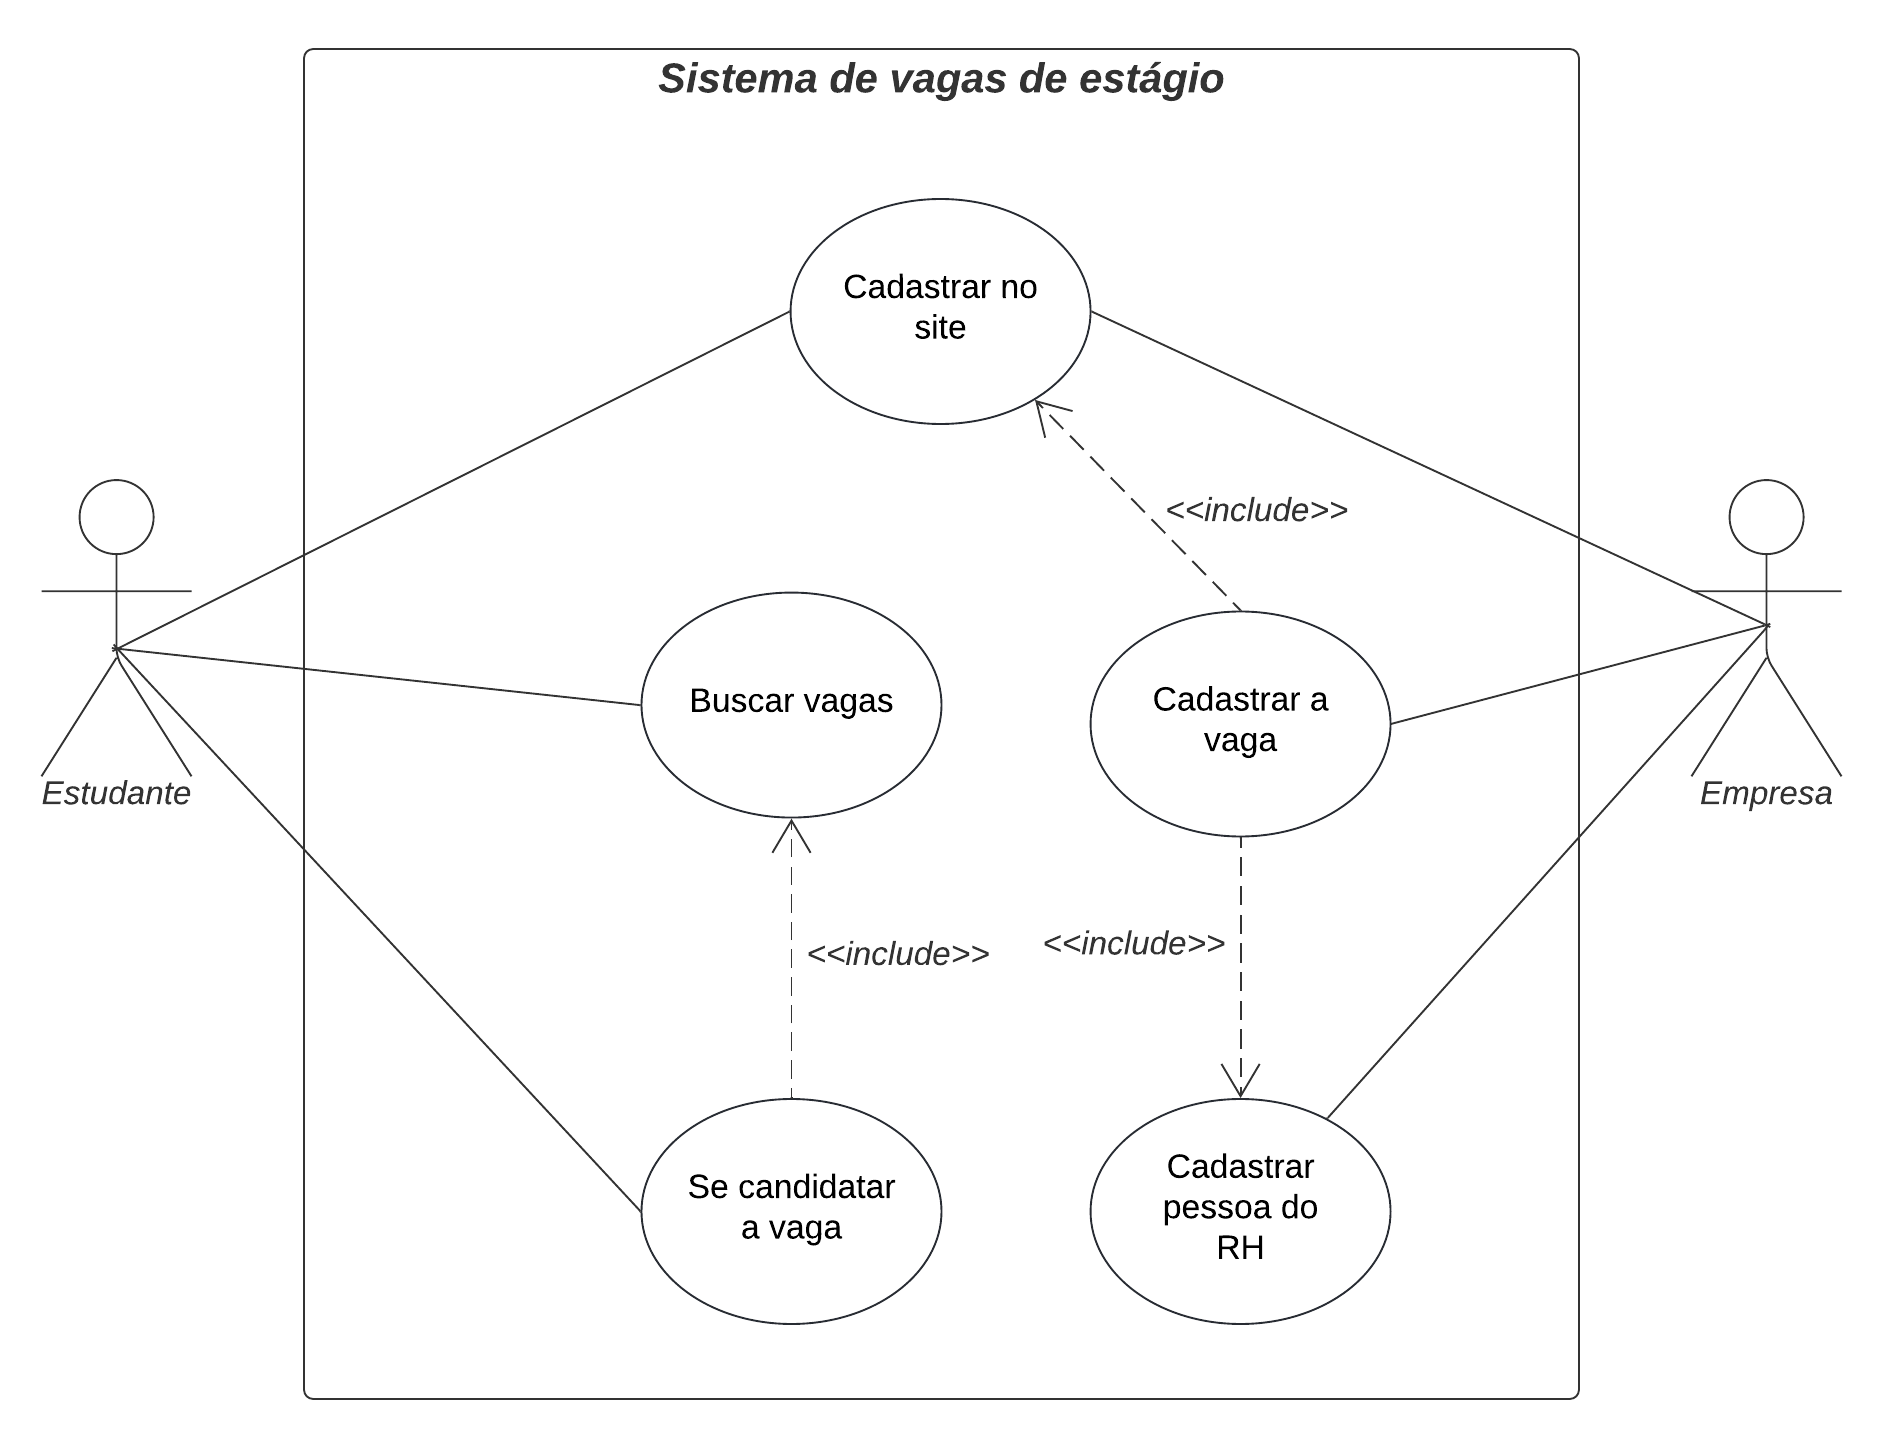
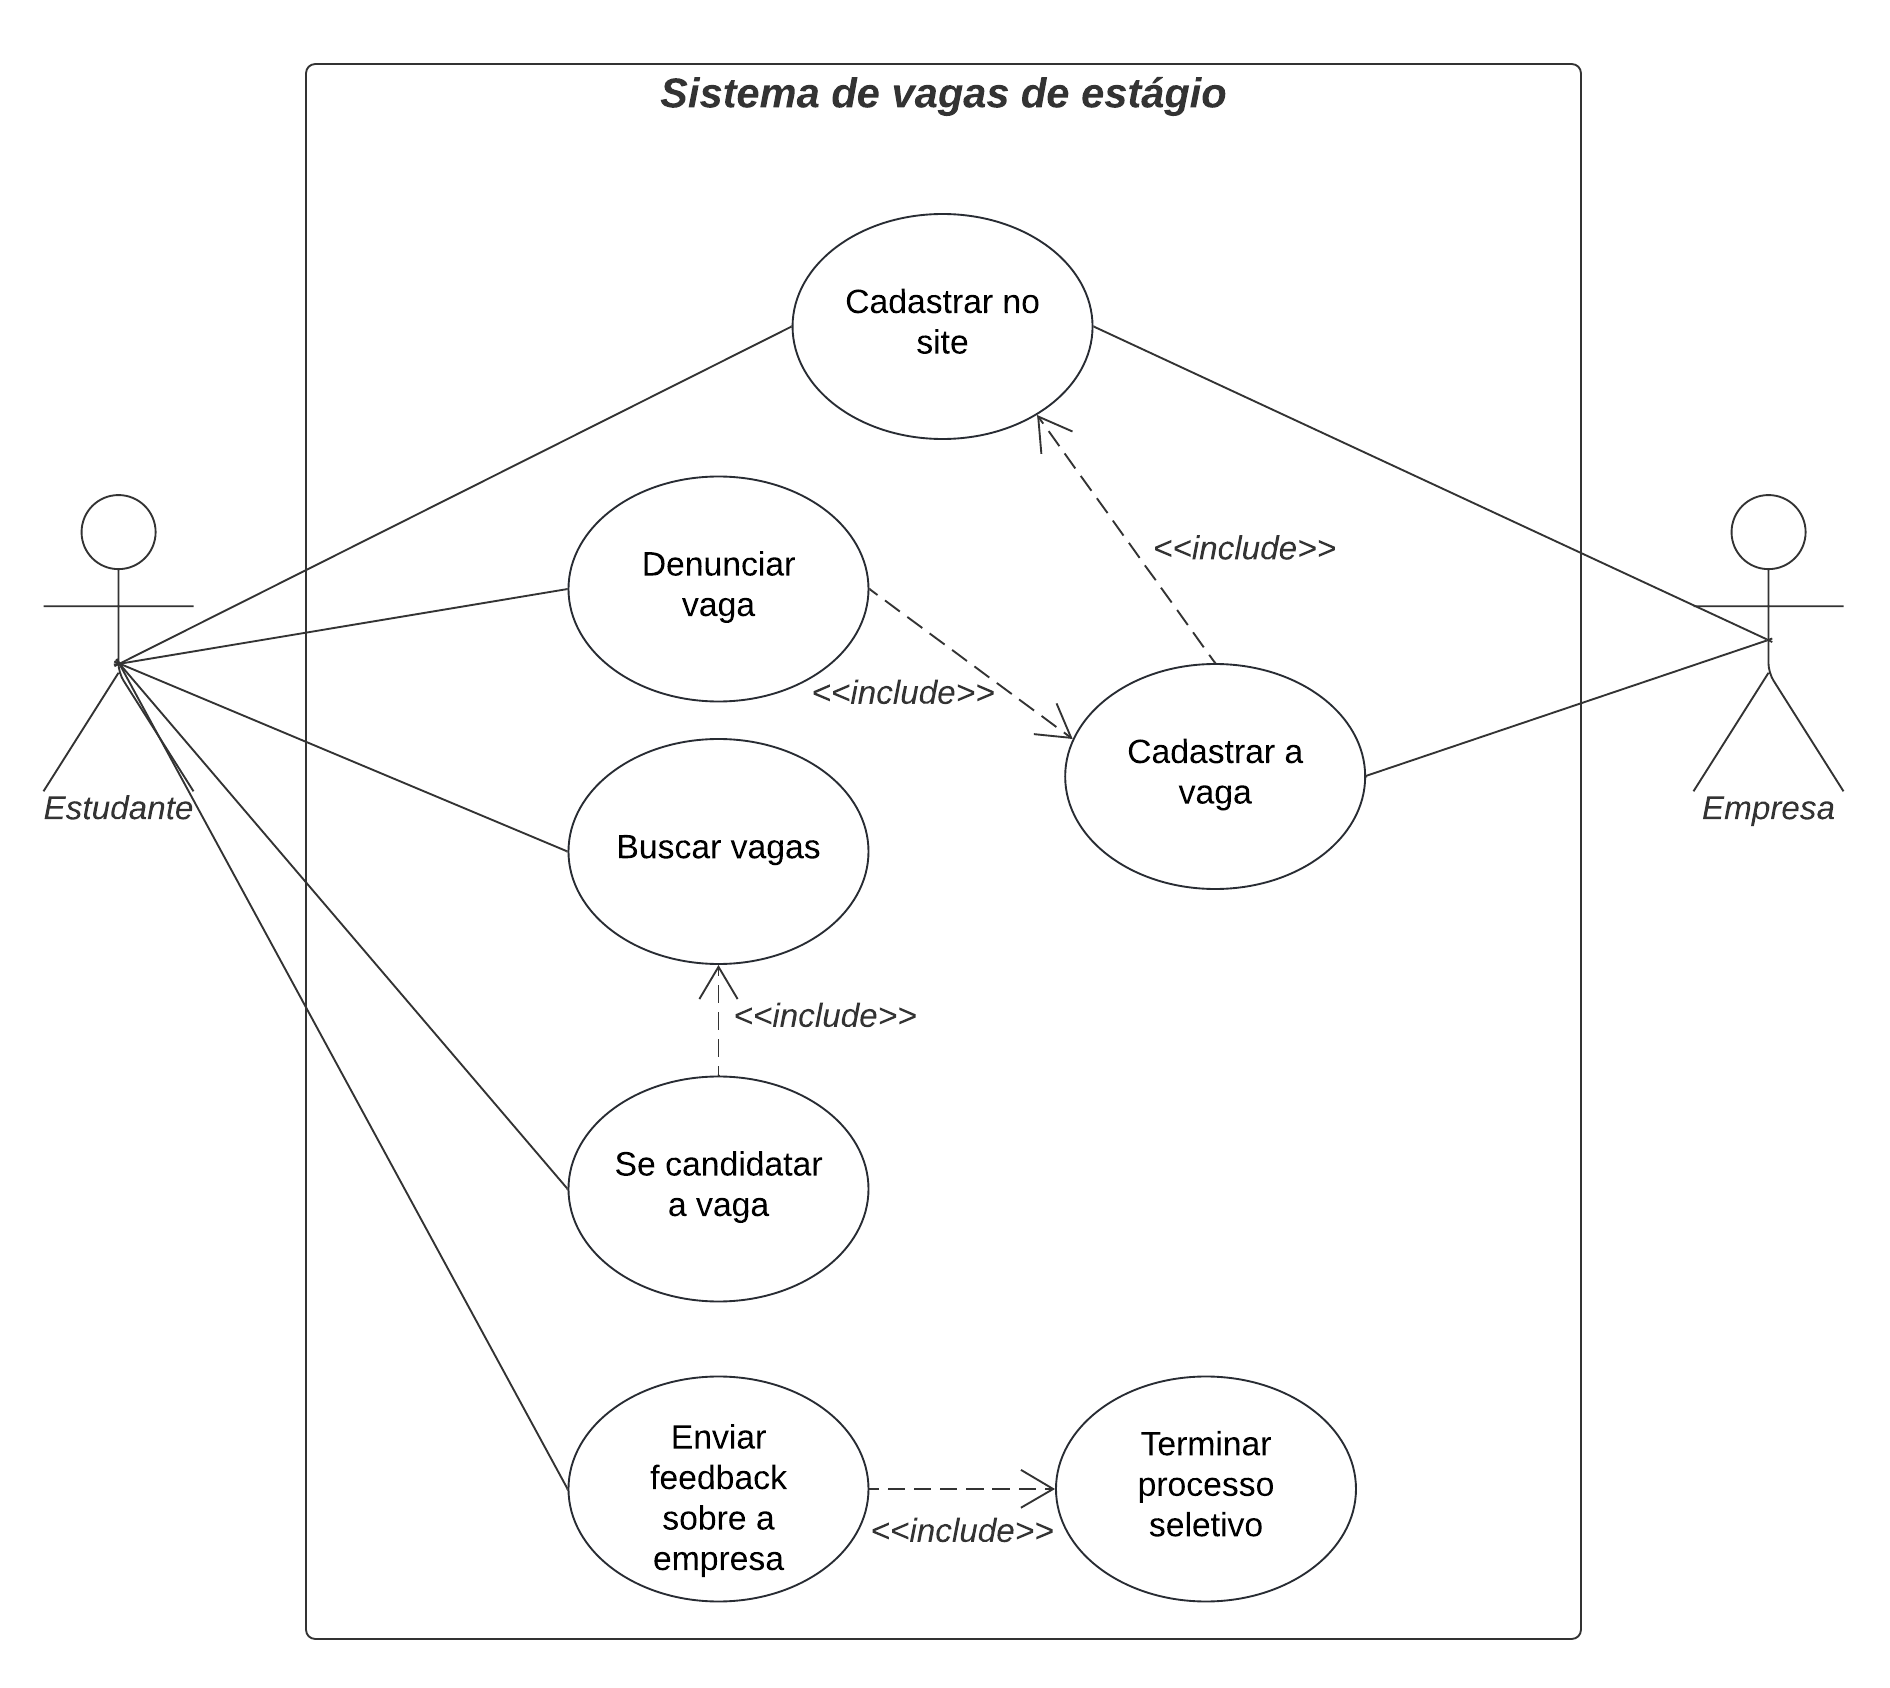
Refinamento dos casos de uso e inicio do tópico de entregas

diff --git a/desenho-do-projeto/capitulos/desenvolvimento-da-aplicacao/section-escopo.tex b/desenho-do-projeto/capitulos/desenvolvimento-da-aplicacao/section-escopo.tex
@@ -46,7 +46,7 @@ Durante nossa análise, decidimos que esses seriam os principais requisitos func
     RF-007 &
       Possibilitar que a empresa realize mudanças no status de andamento da vaga \\ \hline
     RF-008 &
-      \begin{tabular}[c]{@{}l@{}}Possibilitar que o estudante realize um feedback da empresa pós-entrevista, \\ que será visto por outros estudantes\end{tabular} \\ \hline
+      \begin{tabular}[c]{@{}l@{}}Possibilitar que o estudante realize um \emph{feedback} da empresa pós-entrevista, \\ que será visto por outros estudantes\end{tabular} \\ \hline
     RF-009 &
       \begin{tabular}[c]{@{}l@{}}Não permitir o registro de vagas cujas horas de atividades ultrapassem \\ a carga horária prevista por lei de acordo com a situação escolar de cada estudante\end{tabular} \\ \hline
     RF-010 &
@@ -74,7 +74,7 @@ Os requisitos não-funcionais do nosso projeto estão listados abaixo:
     RNF-003                               & O sistema deve possuir possibilidade de escalabilidade                  \\ \hline
     RNF-004                               & Tempo para o carregamento que satisfaça as expectativas do cliente      \\ \hline
     RNF-005                               & O sistema deve possuir uma taxa de ocorrência de falhas menor que 0.3\% \\ \hline
-    RNF-006                               & O sistema deve estar de acordo com a Lei Geral de Proteção de Dados     \\ \hline
+    RNF-006                               & O sistema deve estar de acordo com a \ac{lgpd}                          \\ \hline
     RNF-007 & \begin{tabular}[c]{@{}l@{}}O sistema deve estar de acordo com a lei Nº 11.788, de 25 de setembro de 2008, \\ regulando a carga horária do estágio\end{tabular} \\ \hline
     RNF-008 & \begin{tabular}[c]{@{}l@{}}O sistema deve ser responsivo aos diferentes dispositivos que os usuários \\ podem utilizar para acessá-lo\end{tabular}             \\ \hline
     \end{tabular}
@@ -121,7 +121,7 @@ As regras de negócio do nosso projeto estão listados abaixo:
 Casos de usos que são pertinentes à nossa aplicação.
 \begin{figure}[H]
 	\centering 
-	\caption{\label{fig:caso1}Caso de Uso 1 - Sistema de busca e cadastro de vagas}
+	\caption{\label{fig:caso1}Caso de Uso 1 - Funcionalidades do estudante}
 	%\includesvg[inkscapelatex=false,width=0.6\textwidth]{imagens/caso-de-uso-1.svg}
 	\includegraphics[width=0.8\textwidth]{imagens/caso-de-uso-1.png} 
 	\fonte{Os autores}
@@ -129,9 +129,31 @@ Casos de usos que são pertinentes à nossa aplicação.
 
 \begin{figure}[H]
 	\centering 
-	\caption{\label{fig:caso1}Caso de Uso 2 - Funcionalidades do administrador}
-	%\includesvg[inkscapelatex=false,width=0.6\textwidth]{imagens/caso-de-uso-1.svg}
+	\caption{\label{fig:caso2}Caso de Uso 2 - Funcionalidades da empresa}
+	%\includesvg[inkscapelatex=false,width=0.6\textwidth]{imagens/caso-de-uso-2.svg}
 	\includegraphics[width=0.8\textwidth]{imagens/caso-de-uso-2.png} 
 	\fonte{Os autores}
 \end{figure}
 
+\begin{figure}[H]
+	\centering 
+	\caption{\label{fig:caso3}Caso de Uso 3 - Funcionalidades do administrador}
+	%\includesvg[inkscapelatex=false,width=0.6\textwidth]{imagens/caso-de-uso-3.svg}
+	\includegraphics[width=0.8\textwidth]{imagens/caso-de-uso-3.png} 
+	\fonte{Os autores}
+\end{figure}
+
+\subsection{Fases de entrega}
+
+Nessa seção, iremos expor quais funcionalidades do sistemas pretendemos entregar nas principais fases de entrega.
+
+\subsubsection{Prova de Conceito}
+
+Na fase da prova de conceito, pretendemos entregar as funcionalidades mais básicas do nosso software. Dentre elas, o cadastro de estudantes via \ac{sso} da Google, onde é explicado o processo no site possibilitando a criação de uma conta com informações básicas, necessárias apenas para o funcionamento padrão do sistema, e o cadastro de empresas, que será feito no próprio \emph{website}, onde a empresa preenche as informações e passa por uma aprovação nossa. Além disso, o software permitirá o login desses usuários já cadastrados, onde poderão consultar suas informações básicas.
+
+Ao cadastrar no sistema, a empresa também poderá registrar uma pessoa do \ac{rh} que será responsável por gerenciar as vagas daquela organização, e essa pessoa poderá criar novas vagas com informações básicas, apenas para serem visíveis na tela de consulta de vagas.
+Na parte do estudante, será possível para ele, consultar as vagas que existem no sistema através de filtros básicos.
+
+\subsubsection{Produto Mínimo Viável (MVP)}
+
+Na entrega do \ac{mvp}, pretendemos incrementar o que já foi desenvolvido durante a prova de conceito com funcionalidades importantes ao nosso sistema, como a candidatura do estudante à uma vaga, a possibilidade do estudante denunciar uma vaga por não ser coerente com a proposta da nossa aplicação, que é ser um \emph{website} que possua vagas de estágios coerentes com a realidade de um estagiário, funcionalidade de login via \gls{linkedin} para os estudantes, recomendações de vagas para os candidatos e recomendação de candidatos para empresas

diff --git a/desenho-do-projeto/capitulos/desenvolvimento-da-aplicacao/main.tex b/desenho-do-projeto/capitulos/desenvolvimento-da-aplicacao/main.tex
@@ -14,41 +14,31 @@
 \input{capitulos/desenvolvimento-da-aplicacao/section-escopo}
 
 % ----------------------------------------------------------
-% TECNOLOGIAS UTILIZADAS
+% INTEGRACOES
 % ----------------------------------------------------------
-\section{Tecnologias utilizadas}
-\begin{comment}
-\section{Integrações}
-Nessa seção serão citadas as possíveis integrações que nossa aplicação terá, que foram decididas baseadas em outras aplicações do mercado.
-
-\subsection{Login com o Google e LinkedIn}
-Pensando na experiência de usuário, nossa aplicação terá a opção do estudante se logar através do \ac{sso} dessas empresas. Dessa forma, não será necessário digitar a senha toda vez que o usuário for usar nosso \emph{website}, precisando apenas clicar um botão e fazer o login em uma dessas alternativas.
-
-\subsection{Entrar em contato via \emph{Whatsapp}}
-Nossa aplicação terá, também, uma forma da empresa contatar o estudante via Whatsapp. Essa integração será feita via \ac{api} disponibilizada pela própria empresa que mantém o aplicativo (Meta). Dessa forma, com apenas um clique, será possível enviar uma mensagem diretamente ao estudante.
-\end{comment}
+\input{capitulos/desenvolvimento-da-aplicacao/section-integracoes}
 
 % ----------------------------------------------------------
-% ARQUITETURA
+% MODELAGEM
 % ----------------------------------------------------------
-\section{Modelagem e Definições Técnicas}
+%\input{capitulos/desenvolvimento-da-aplicacao/section-modelagem}
 
 % ----------------------------------------------------------
-% ARQUITETURA
+% MANUTENIBILIDADE
 % ----------------------------------------------------------
 \input{capitulos/desenvolvimento-da-aplicacao/section-manutenibilidade}
 
 % ----------------------------------------------------------
-% ARQUITETURA
+% ESCALABILIDADE
 % ----------------------------------------------------------
 \section{Escalabilidade}
 
 % ----------------------------------------------------------
-% ARQUITETURA
+% SEGURANCA
 % ----------------------------------------------------------
 \section{Segurança, Privacidade e Legislação}
 
 % ----------------------------------------------------------
-% ARQUITETURA
+% VIABILIDADE-FINANCEIRA
 % ----------------------------------------------------------
 \input{capitulos/desenvolvimento-da-aplicacao/section-viabilidadefinanceira}

diff --git a/desenho-do-projeto/capitulos/desenvolvimento-da-aplicacao/section-integracoes.tex b/desenho-do-projeto/capitulos/desenvolvimento-da-aplicacao/section-integracoes.tex
@@ -1,0 +1,8 @@
+\section{Integrações}
+Nessa seção serão citadas as possíveis integrações que nossa aplicação terá, que foram decididas baseadas em outras aplicações do mercado.
+
+\subsection{Login com o Google e LinkedIn}
+Pensando na experiência de usuário, nossa aplicação terá a opção do estudante se logar através do \ac{sso} dessas empresas. Dessa forma, não será necessário digitar a senha toda vez que o usuário for usar nosso \emph{website}, precisando apenas clicar um botão e fazer o login em uma dessas alternativas.
+
+\subsection{Entrar em contato via \emph{Whatsapp}}
+Nossa aplicação terá, também, uma forma da empresa contatar o estudante via Whatsapp. Essa integração será feita via \ac{api} disponibilizada pela própria empresa que mantém o aplicativo. Dessa forma, com apenas um clique, será possível enviar uma mensagem diretamente ao estudante.

diff --git a/desenho-do-projeto/capitulos/planejamento-e-gerenciamento/main.tex b/desenho-do-projeto/capitulos/planejamento-e-gerenciamento/main.tex
@@ -11,7 +11,7 @@
 % ----------------------------------------------------------
 % ORGANIZAÇÃO DA EQUIPE
 % ----------------------------------------------------------
-%\input{<caminho>}
+%\input{capitulos/}
 
 % ----------------------------------------------------------
 % GESTÃO DE TEMPO
@@ -20,15 +20,5 @@
 
 % ----------------------------------------------------------
 % DIAGRAMA DE GANTT
-% ----------------------------------------------------------
-%\input{<caminho>}
-
-% ----------------------------------------------------------
-% HISTÓRIA DE USUÁRIOS
-% ----------------------------------------------------------
-%\input{<caminho>}
-
-% ----------------------------------------------------------
-% DIAGRAMAS DE CASO DE USO
 % ----------------------------------------------------------
 %\input{<caminho>}

diff --git a/desenho-do-projeto/main-texto-proposta.tex b/desenho-do-projeto/main-texto-proposta.tex
@@ -32,7 +32,6 @@
 %\usepackage{etoolbox}
 %\patchcmd{\thebibliography}{\chapter*}{\section*}{}{}
 \usepackage{float}
-
 % ---
 % Informações de dados para CAPA e FOLHA DE ROSTO
 % ---
@@ -163,6 +162,8 @@ Marcelo Carlos Olimpio Junior &SP3046583 \\
 % ----------------------------------------------------------
 % Referências bibliográficas
 % ----------------------------------------------------------
-%\bibliography{referencias,exemplos/abntex2-doc-abnt-6023}
+\bibliography{referencias,exemplos/abntex2-doc-abnt-6023}
+
+\input{pos-glossario.tex}
 
 \end{document}

diff --git a/PropostaInicial/textos-tecnologias.tex b/PropostaInicial/textos-tecnologias.tex
@@ -8,7 +8,7 @@ Em relação ao deploy das aplicações, o \textit{front-end} será hospedado na
 
 Ademais, se for necessário o armazenamento de objetos como arquivos ou imagens, utilizaremos a plataforma Cloudinary principalmente por sua fácil integração com a linguagem de programação Java através de bibliotecas.
 
-%
+
 \subsection{Diagramas de arquitetura}
 Os diagramas \autoref{fig_arq_app}, \autoref{fig_arq_tec} e \autoref{fig_arq_negocio} ilustram de modo geral a arquitetura pensada para a solução proposta, utilizando das tecnologias já citadas.
 

diff --git a/desenho-do-projeto/defs-glossario.tex b/desenho-do-projeto/defs-glossario.tex
@@ -11,7 +11,12 @@
 % \gls{identificação}            
 % \Gls{identificação}            
 % \glspl{identificação}            
-% \Glspl{identificação}            
+% \Glspl{identificação}    
+
+\newglossaryentry{linkedin} {
+	name=LinkedIn,
+	description={Rede social focada em vagas de emprego.}
+}        
 
 \newglossaryentry{pai}{
                 name={pai},

diff --git a/desenho-do-projeto/defs-siglas.tex b/desenho-do-projeto/defs-siglas.tex
@@ -10,3 +10,5 @@
 \defSiglaIngles{sso}{SSO}{Single Sign-On}{Login único}
 \defSiglaIngles{api}{API}{Application Programming Interface}{Interface de Programação de Aplicativos}
 \defSigla{lgpd}{LGPD}{Lei Geral de Proteção de Dados}
+\defSigla{rh}{RH}{Recursos Humanos}
+\defSiglaIngles{mvp}{MVP}{Minimum Viable Product}{Produto Mínimo Viável}
